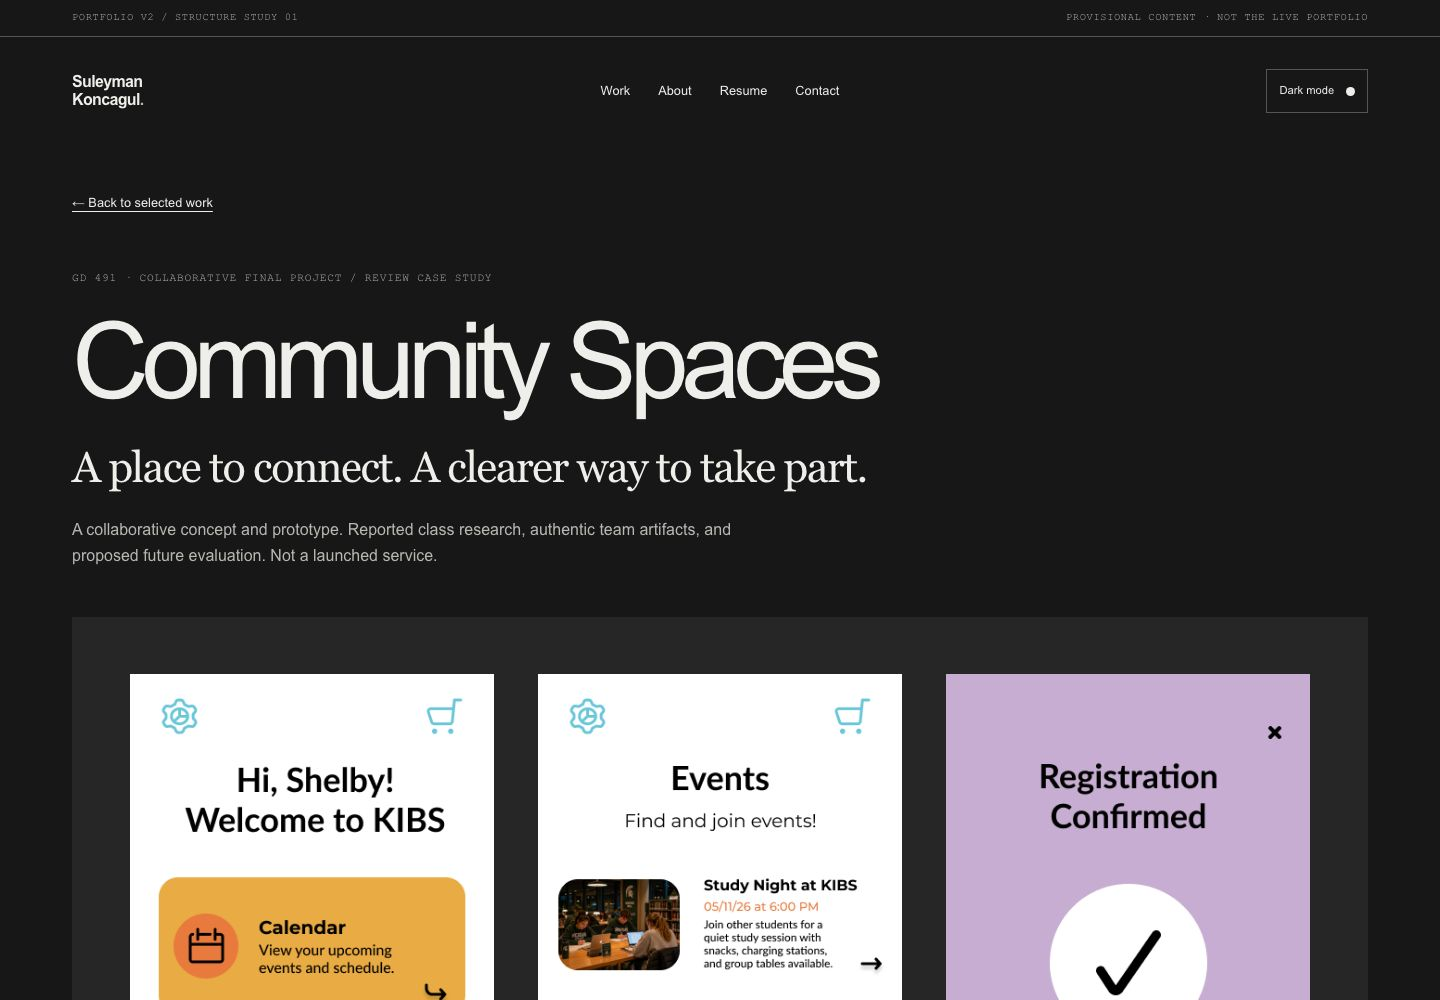
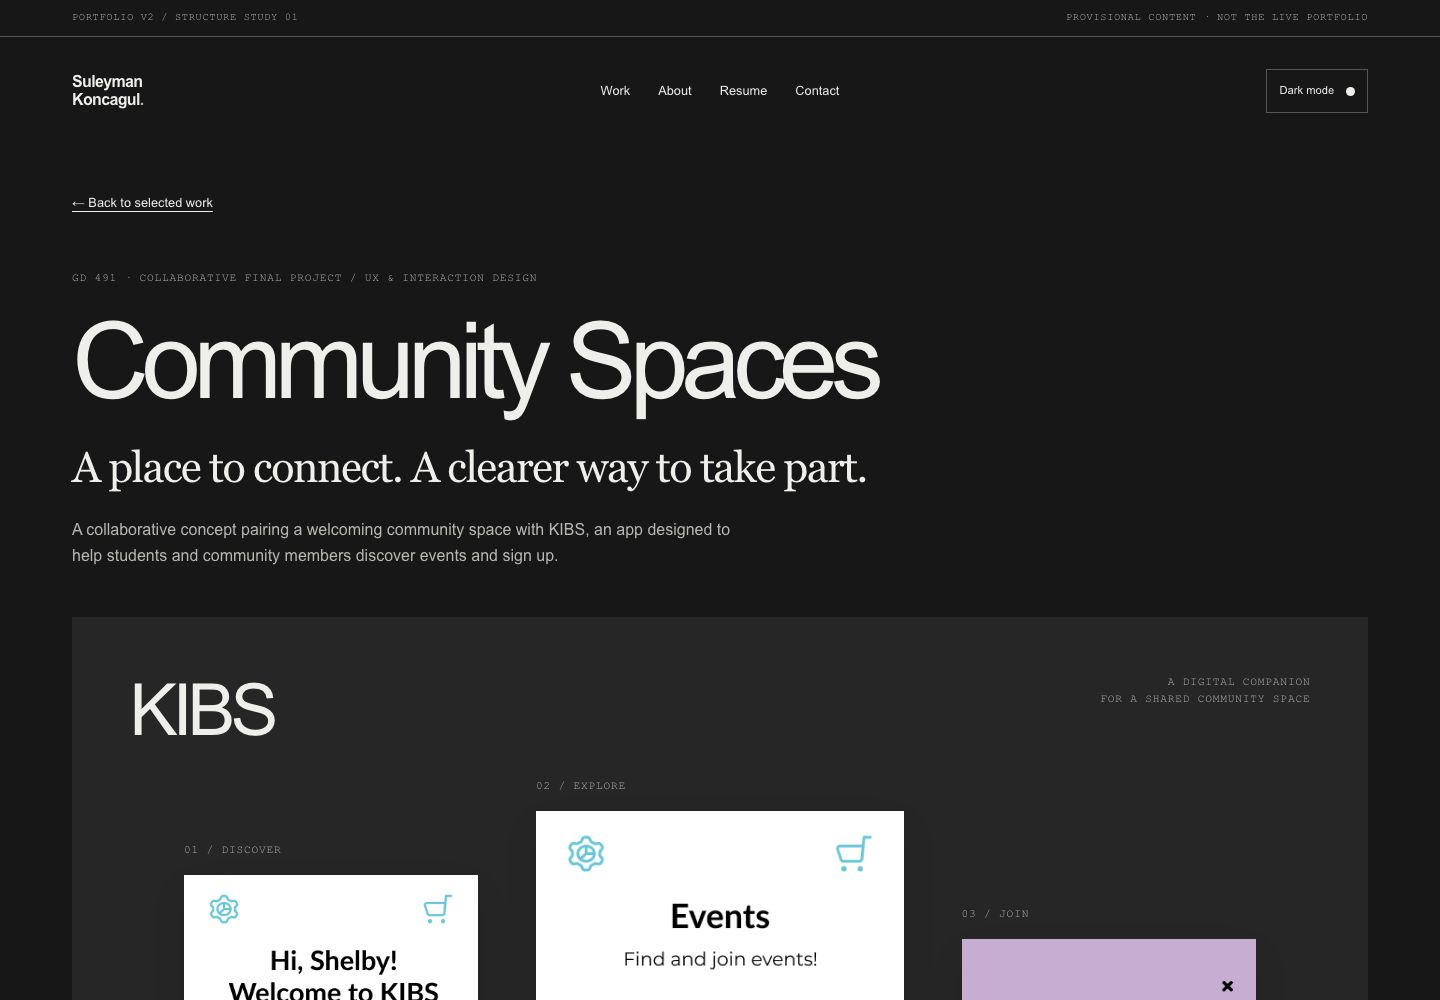
refine: showcase authentic KIBS screens in case-study hero

diff --git a/src/styles/case-study.css b/src/styles/case-study.css
@@ -16,7 +16,18 @@
 .case-deck { font-family: Georgia, 'Times New Roman', serif; font-size: clamp(1.6rem, 3vw, 2.8rem); line-height: 1.2; letter-spacing: -.035em; max-width: 32ch; }
 .case-scope { color: var(--muted); max-width: 42rem; margin-top: 1.5rem; }
 .screen-sequence { display: grid; grid-template-columns: repeat(3, minmax(0, 1fr)); align-items: start; gap: clamp(1rem, 3vw, 3rem); }
-.case-cover { padding: clamp(1rem, 4vw, 4rem); background: var(--artifact-mat); }
+.hero-showcase { margin: 0; padding: clamp(1.5rem, 4vw, 4rem); background: var(--artifact-mat); }
+.showcase-heading { display: flex; justify-content: space-between; align-items: start; gap: 2rem; margin-bottom: 2rem; }
+.showcase-wordmark { font-size: clamp(2.5rem, 5vw, 5rem); letter-spacing: -.07em; line-height: 1; }
+.showcase-heading .micro { color: var(--muted); text-align: right; }
+.showcase-screens { display: grid; grid-template-columns: .8fr 1fr .8fr; align-items: start; gap: clamp(1.25rem, 4vw, 4rem); max-width: 67rem; margin-inline: auto; }
+.showcase-screen { min-width: 0; }
+.showcase-screen > .micro { display: block; margin-bottom: 1rem; color: var(--muted); }
+.showcase-screen img { display: block; width: 100%; height: auto; max-width: 393px; box-shadow: 0 16px 36px #00000012; }
+.showcase-discover { padding-top: 4rem; }
+.showcase-join { padding-top: 8rem; }
+.hero-showcase > figcaption { display: flex; justify-content: space-between; gap: 2rem; border-top: 1px solid var(--rule); padding-top: 1.5rem; margin-top: 3rem; font-size: .9rem; }
+.showcase-source { max-width: 26ch; color: var(--muted); font: .65rem/1.6 'Courier New', monospace; }
 .project-metadata { display: grid; grid-template-columns: 1fr 1.5fr 2fr 1fr; gap: 2rem; margin: 3rem 0 0; padding-block: 2rem; border-block: 1px solid var(--rule); }
 .project-metadata dt { color: var(--muted); margin-bottom: .75rem; }
 .project-metadata dd { margin: 0; font-size: .85rem; }
@@ -67,8 +78,17 @@
   .case-back { margin-bottom: 2rem; }
   .case-hero h1 { font-size: clamp(2.6rem, 12vw, 4rem); overflow-wrap: normal; }
   .project-metadata { grid-template-columns: 1fr; gap: 1.5rem; margin-top: 2rem; }
-  .case-cover .screen-sequence, .process-content > .screen-sequence { grid-template-columns: 1fr; gap: 2rem; }
-  .case-cover .artifact-screen { max-width: 280px; margin-inline: auto; }
+  .showcase-heading { margin-bottom: 2rem; gap: 1rem; }
+  .showcase-heading .micro { font-size: .55rem; }
+  .showcase-screens { grid-template-columns: repeat(2, minmax(0, 1fr)); gap: 1.5rem 1rem; }
+  .showcase-explore { grid-column: 1 / -1; grid-row: 1; width: min(82%, 280px); justify-self: center; }
+  .showcase-discover, .showcase-join { padding-top: 0; }
+  .showcase-discover { grid-row: 2; grid-column: 1; }
+  .showcase-join { grid-row: 2; grid-column: 2; }
+  .showcase-screen > .micro { font-size: .55rem; margin-bottom: .6rem; }
+  .hero-showcase > figcaption { flex-direction: column; gap: .75rem; margin-top: 2rem; font-size: .85rem; }
+  .showcase-source { max-width: none; }
+  .process-content > .screen-sequence { grid-template-columns: 1fr; gap: 2rem; }
   .process-content > .screen-sequence .artifact-screen { max-width: 280px; margin-inline: auto; }
   .design-comparison { grid-template-columns: 1fr; gap: 2.5rem; }
   .design-comparison > div { max-width: 280px; margin-inline: auto; }

diff --git a/tests/browser/community-spaces.spec.ts b/tests/browser/community-spaces.spec.ts
@@ -55,7 +55,7 @@ test('authentic image exports load with meaningful descriptions and intact propo
     expect(response.status()).toBe(200);
     expect(response.headers()['content-type']).toContain('image/png');
   }
-  await expect(page.locator('figcaption a')).toHaveCount(10);
+  await expect(page.locator('.process-content figcaption a')).toHaveCount(7);
 });
 
 test('desktop and narrow layouts retain readable figures and comparison without overflow', async ({ page }) => {
@@ -71,6 +71,7 @@ test('desktop and narrow layouts retain readable figures and comparison without 
     if (width === 390 || width === 1440) {
       await page.screenshot({ path: `test-results/community-${width}.png`, fullPage: true });
       await page.screenshot({ path: `test-results/community-cover-${width}.jpg`, quality: 80 });
+      await page.locator('.case-intro').screenshot({ path: `test-results/community-hero-${width}.jpg`, quality: 75 });
       await page.locator('.design-comparison').screenshot({ path: `test-results/community-comparison-${width}.jpg`, quality: 80 });
     }
     await page.goto('/');

diff --git a/docs/COMMUNITY_SPACES.md b/docs/COMMUNITY_SPACES.md
@@ -70,3 +70,11 @@ Desktop and mobile covers, comparison layouts, full desktop page, and homepage f
 - Manual screen-reader, Safari/Firefox, real-device, and performance audits remain pending.
 - Review-only/noindex is not privacy protection. Repository materials are public; no confidential raw research or full PDF was added.
 - This PR depends on PR #2. Keep it draft and retarget/recheck after the base merges; no merge is authorized.
+
+## Hero refinement — 2026-10-16
+
+At the owner's request, replaced the defensive introductory paragraph with a concise explanation of the collaborative concept and purpose. The new HeroShowcase gives the authentic Events screen central prominence, with Home and Confirmation staggered alongside it on desktop and below it on mobile. Original typography/navigation and generous editorial spacing are retained. The artifact files were not changed; source hashes still pass. Figma read access to the supplied file was reconfirmed.
+
+The hero now introduces the work; factual status, shared team contribution, research limits, illustrative prototype data, and proposed testing remain in the metadata and narrative. Review-only/noindex remains intact. No launch or validation claims were added. Updated complete hero desktop/mobile and dark screenshots replace the prior captures at the same review paths above.
+
+Verification after refinement: Astro/TypeScript check (0 errors/warnings/hints), static build, 7 content/provenance tests, and all 13 browser tests passed. Automated accessibility checks and 320/390/768/1440px overflow checks passed; desktop/mobile compositions were visually inspected. No merge or deployment.
